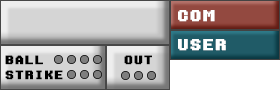
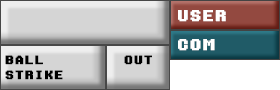
game_info ui 추가

diff --git a/source/ui/game_info_ui.py b/source/ui/game_info_ui.py
@@ -1,0 +1,28 @@
+from pico2d import load_image, load_font
+import server
+
+
+class GameInfoUI:
+    image = None
+
+    def __init__(self):
+        self.font = load_font('resource/txt/DungGeunMo.TTF', 18)
+        self.hitter_image = load_image('resource/image/hitter_red.png')
+        self.out_count_image = load_image('resource/image/out_count.png')
+        self.ball_count_image = load_image('resource/image/ball_count.png')
+        self.strike_count_image = load_image('resource/image/strike_count.png')
+
+        if GameInfoUI.image is None:
+            GameInfoUI.image = load_image('resource/image/game_info.png')
+
+    def update(self):
+        pass
+
+    def draw(self):
+        self.image.draw(150, 530)
+        # self.font.draw(130, 115, f'{server.cur_hitter.name}', (0, 0, 0))
+        # self.font.draw(150, 70, f'{server.cur_hitter.BA}', (0, 0, 0))
+        # self.hitter_image.draw(70, 100)
+        self.ball_count_image.clip_draw(server.cur_hitter.ball * 60, 0, 60, 15, 88, 515)
+        self.strike_count_image.clip_draw(server.cur_hitter.strike * 40, 0, 40, 15, 95, 500)
+        self.out_count_image.clip_draw(server.out_count * 40, 0, 40, 15, 148, 500)

diff --git a/source/mode/lobby_mode.py b/source/mode/lobby_mode.py
@@ -18,6 +18,7 @@ import ui.inning_ui as inning_ui
 import ui.game_ment_ui as game_ment_ui
 import ui.judge_ui as judge_ui
 import ui.hitter_info_ui as hitter_info_ui
+import ui.game_info_ui as game_info_ui
 
 import mode.attack_mode as attack_mode
 
@@ -42,6 +43,7 @@ def init():
     server.ui_inning = inning_ui.InningUI()
     server.ui_judge = judge_ui.JudgeUI()
     server.ui_hitter_info = hitter_info_ui.HitterInfoUI()
+    server.ui_game_info = game_info_ui.GameInfoUI()
 
 
 def finish():

diff --git a/source/object/hitter.py b/source/object/hitter.py
@@ -481,7 +481,6 @@ class StateMachineHitter:
     def draw(self):
         self.cur_state.draw(self.hitter)
         sx, sy = self.hitter.pos[0] - server.background.window_left, self.hitter.pos[1] - server.background.window_bottom
-        self.hitter.font.draw(sx - 10, sy + 50, f'{self.hitter.name}', (0, 255, 0))
 
 
 class StateMachineRunner:

diff --git a/source/mode/ui_mode.py b/source/mode/ui_mode.py
@@ -22,12 +22,12 @@ def handle_events():
 
 
 def init():
-    game_world.add_object(server.ui_inning, 3)
+    game_world.add_object(server.ui_inning, 4)
 
 
 def update():
     game_world.update()
-    if server.ui_inning.x == 100:
+    if server.ui_inning.x == 110:
         game_framework.pop_mode()
 
 

diff --git a/source/ui/inning_ui.py b/source/ui/inning_ui.py
@@ -20,7 +20,7 @@ class InningUI:
             self.x -= 50
         else:
             self.size = 0.5
-            self.x, self.y = 100, 550
+            self.x, self.y = 110, 550
 
     def draw(self):
         self.inning_image.clip_draw(0, self.turn * 50, 250, 50, self.x, self.y, 250 * self.size,

diff --git a/source/mode/attack_mode.py b/source/mode/attack_mode.py
@@ -82,5 +82,6 @@ def pause():
 
 
 def resume():
-    game_world.add_object(server.ui_hitter_info)
+    game_world.add_object(server.ui_hitter_info, 3)
+    game_world.add_object(server.ui_game_info, 3)
     game_world.add_object(server.progress_bar, 3)

diff --git a/source/mode/defence_mode.py b/source/mode/defence_mode.py
@@ -81,4 +81,6 @@ def pause():
 
 
 def resume():
+    game_world.add_object(server.ui_hitter_info, 3)
+    game_world.add_object(server.ui_game_info, 3)
     game_world.add_object(server.progress_bar, 3)

diff --git a/source/server.py b/source/server.py
@@ -10,6 +10,7 @@ ui_inning = None
 ui_ment = None
 ui_judge = None
 ui_hitter_info = None
+ui_game_info = None
 
 out_count = 0
 cur_inning = 1
